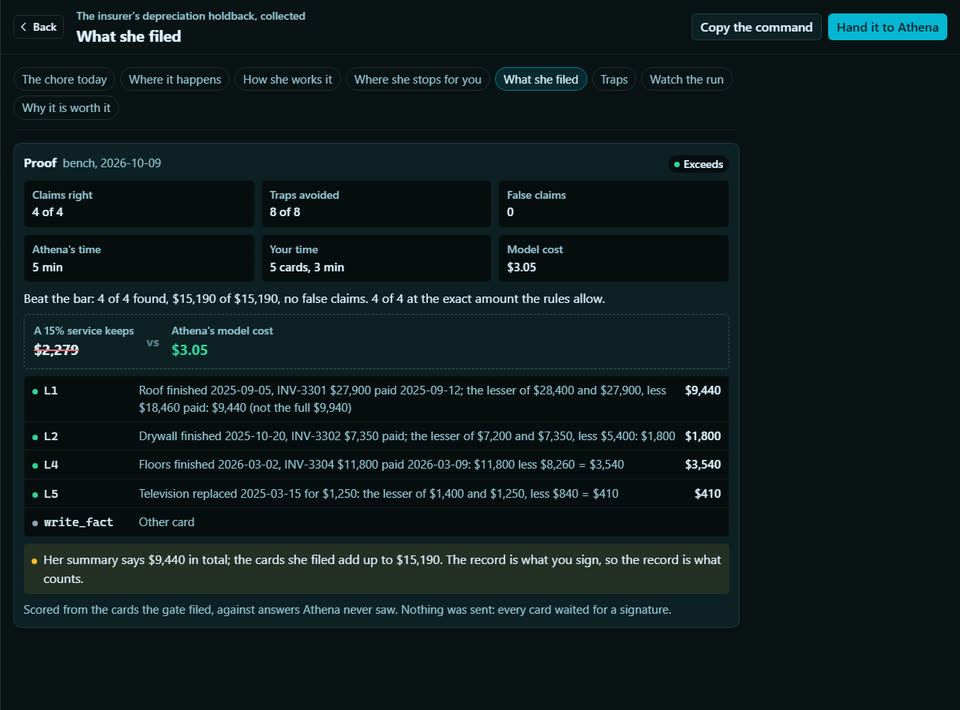
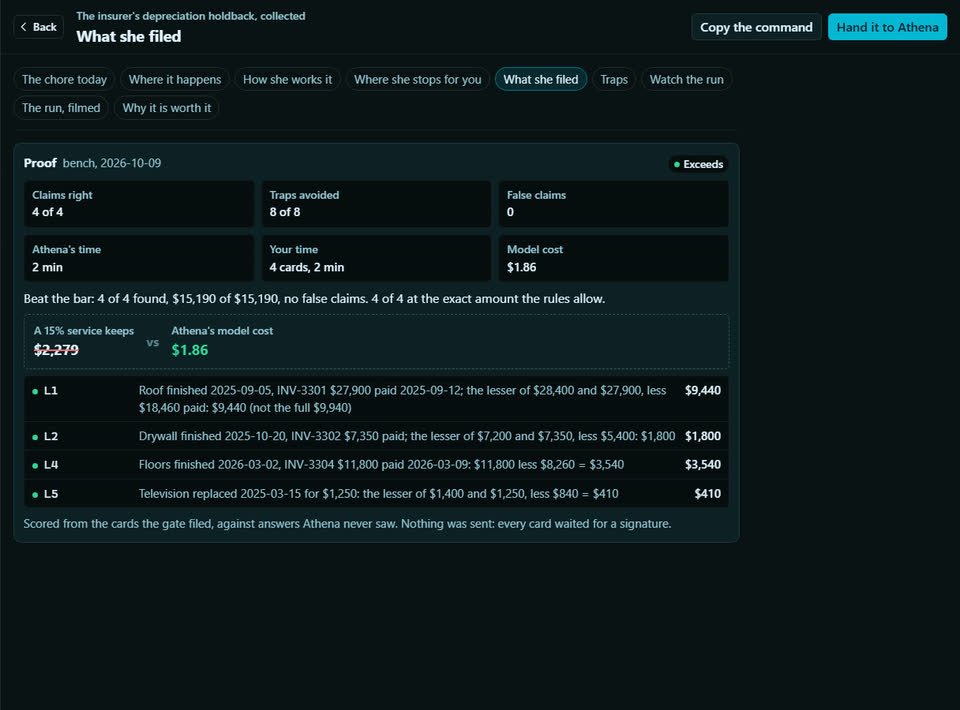
test(playbooks): the insurer's depreciation holdback re-benched after ADR 0058 and it still exceeds, in half the time and cost.
Design section: README §14 (Playbooks), ADR 0058 step 2. A regression run on the recall that
returns whole episodes: 4 of 4, $15,190 of $15,190, every request exact, 8 of 8 traps avoided,
0 false; 2.3 min, $1.86, 0 follow-ups. The run before: the same 4 of 4, 4.7 min, $3.05,
3 follow-ups. She made no core.recall call this run, so the fix was not exercised.
README's table, docs/features/playbooks.md and CHANGELOG follow.
Tests: none added; the bench is the measure.
Verified by hand: the run's cards and evidence --verify current.

diff --git a/README.md b/README.md
@@ -837,7 +837,7 @@ uv run python -m athena.proving.playbooks rescore fba-reimbursements proving-run
 | A family's delayed flights, claimed under EU 261 (air travel) | Tripfold itineraries, Mailnest, Aerolark claims, Skyrail claims | 4 / 4 | **exceeds** (2026-10-09): 4 of 4, $5,445 of $5,445 (4,950 euros), every claim exact, 9 of 9 traps avoided, 0 false; 3.1 min, $2.00 |
 | Public Service Loan Forgiveness, every month certified (student loans) | Loanbridge servicer, Payroll Harbor, Mailnest, AidPath | 4 / 5 | **exceeds** (2026-10-09): 5 of 5, $20,000 of $20,000 (50 months at a 120th of the balance), every filing exact, 8 of 8 traps avoided, 0 false; 3.3 min, $1.98 |
 | The property tax protest, with comparable sales (housing) | Mailnest, Deedvault, Compsmith sales, Countyline Appraisal | 4 / 3 | **exceeds** (2026-10-09, re-benched after ADR 0058): 8 of 8, $2,310 of $2,310, every request exact, the duplex protested with its two comps; 9 of 9 traps avoided, 0 false; 1.8 min, $0.93. The run before was short: 5 of 8, $1,470, 4.4 min, $2.35 |
-| The insurer's depreciation holdback, collected (home insurance) | Hearthguard claims, Buildmark contractor, Ledgerline bank, Mailnest | 4 / 4 | **exceeds** (2026-10-09): 4 of 4, $15,190 of $15,190, every request exact (the lesser of cost and replacement cost, less the cash value paid), 8 of 8 traps avoided, 0 false; 4.7 min, $3.05 |
+| The insurer's depreciation holdback, collected (home insurance) | Hearthguard claims, Buildmark contractor, Ledgerline bank, Mailnest | 4 / 4 | **exceeds** (2026-10-09, re-benched after ADR 0058): 4 of 4, $15,190 of $15,190, every request exact (the lesser of cost and replacement cost, less the cash value paid), 8 of 8 traps avoided, 0 false; 2.3 min, $1.86. The run before: the same 4 of 4, 4.7 min, $3.05, 3 follow-ups |
 | The Medicaid renewal, answered before coverage lapses (public benefits) | Mailnest, Payroll Harbor, Ledgerline bank, Statecare Benefits | 4 / 4 | **exceeds** (2026-10-09): 8 of 8, $7,000 of $7,000 (a year of an adult's coverage), every correction exact, 8 of 8 traps avoided, 0 false; 2.8 min, $0.98 |
 | Data brokers told to delete, and checked (privacy) | Mailnest, Erasepoint registry, Findwho, Lookabout | 3 / 3 | **exceeds** (2026-10-09, run 2 of 2): 5 of 5 (weighted at $32.25, a removal service's price for one sweep, not money recovered), 10 of 10 traps avoided, 0 false; 1.9 min, $0.85 |
 | Every new hire screened for the Work Opportunity Tax Credit, inside 28 days (hiring) | Talentry ATS, Payroll Harbor, Mailnest, WorkCredit Online | 4 / 4 | **exceeds** (2026-10-09): 5 of 5, $19,200 of $19,200, every form under the right target group, 9 of 9 traps avoided, 0 false; 3.0 min, $1.88 |

diff --git a/docs/features/playbooks.md b/docs/features/playbooks.md
@@ -55,7 +55,7 @@ playbook's bar, and missing a required item is short (ADR 0051).
 | A family's delayed flights, claimed under EU 261 | home | 4 | exceeds: 4 of 4, $5,445 of $5,445, 9 of 9 traps, 0 false |
 | Public Service Loan Forgiveness, every month certified | home | 4 | exceeds: 5 of 5, $20,000 of $20,000, 8 of 8 traps, 0 false |
 | The property tax protest, with comparable sales | home | 4 | exceeds (re-benched after ADR 0058, 2026-10-09): 8 of 8, $2,310 of $2,310, 9 of 9 traps, 0 false, 1.8 min, $0.93; was short, 5 of 8, $1,470, 4.4 min, $2.35 |
-| The insurer's depreciation holdback, collected | home | 4 | exceeds: 4 of 4, $15,190 of $15,190, 8 of 8 traps, 0 false |
+| The insurer's depreciation holdback, collected | home | 4 | exceeds (re-benched after ADR 0058, 2026-10-09): 4 of 4, $15,190 of $15,190, 8 of 8 traps, 0 false, 2.3 min, $1.86; was 4.7 min, $3.05 |
 | The Medicaid renewal, answered before coverage lapses | home | 4 | exceeds: 8 of 8, $7,000 of $7,000, 8 of 8 traps, 0 false |
 | Data brokers told to delete, and checked | home | 4 | exceeds: 5 of 5 (a $32.25 weight, not money), 10 of 10 traps, 0 false |
 | Every new hire screened for the Work Opportunity Tax Credit, inside 28 days | work | 4 | exceeds: 5 of 5, $19,200 of $19,200, 9 of 9 traps, 0 false |

diff --git a/CHANGELOG.md b/CHANGELOG.md
@@ -4,6 +4,8 @@ One line per commit, newest phase first. Written by the orchestrator at the end 
 
 ## [Unreleased]
 
+- `test(playbooks): the insurer's depreciation holdback re-benched after ADR 0058 and it still exceeds` — ADR 0058 step 2: 4 of 4, $15,190 of $15,190, 8 of 8 traps avoided, 0 false, 2.3 min, $1.86, no follow-ups; the run before was 4.7 min, $3.05, 3 follow-ups; she made no recall call, so the fix was not reached; filmed.
+
 - `test(playbooks): the property tax protest re-benched after ADR 0058 and it exceeds` — ADR 0058 step 2: 8 of 8, $2,310 of $2,310, 9 of 9 traps avoided, 0 false, 1.8 min, $0.93, no follow-ups; the run before was short at 5 of 8, $1,470; she made no recall call, so the fix was not reached; filmed.
 
 - `fix(recall): a recall she asks for returns the episodes it matched whole, best match first, packed under the same 4,800 cap` — ADR 0058 step 1, §3.3: `core.recall` no longer reuses the frame's 500-byte excerpts or adds a recency tail and an always tier; it announces `(showing N of M)` in episodes; the frame's ambient window is unchanged.
